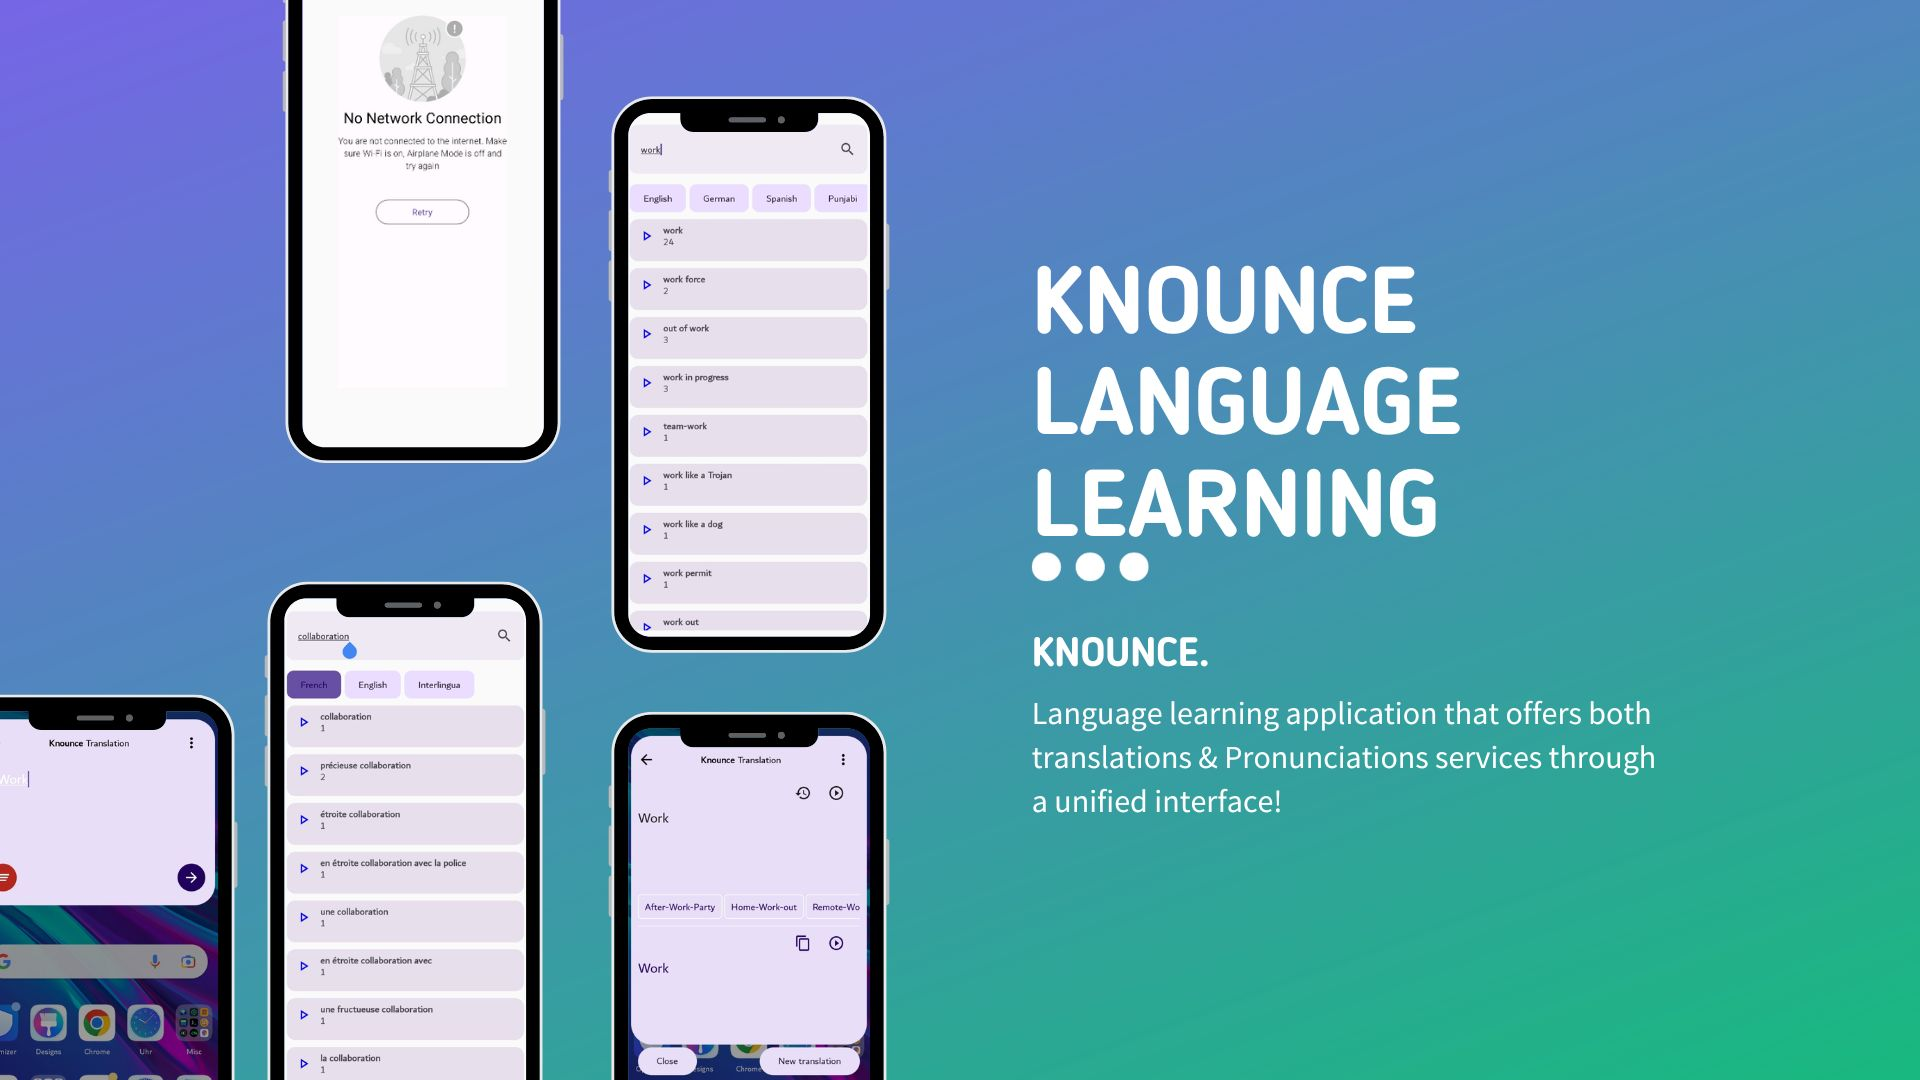
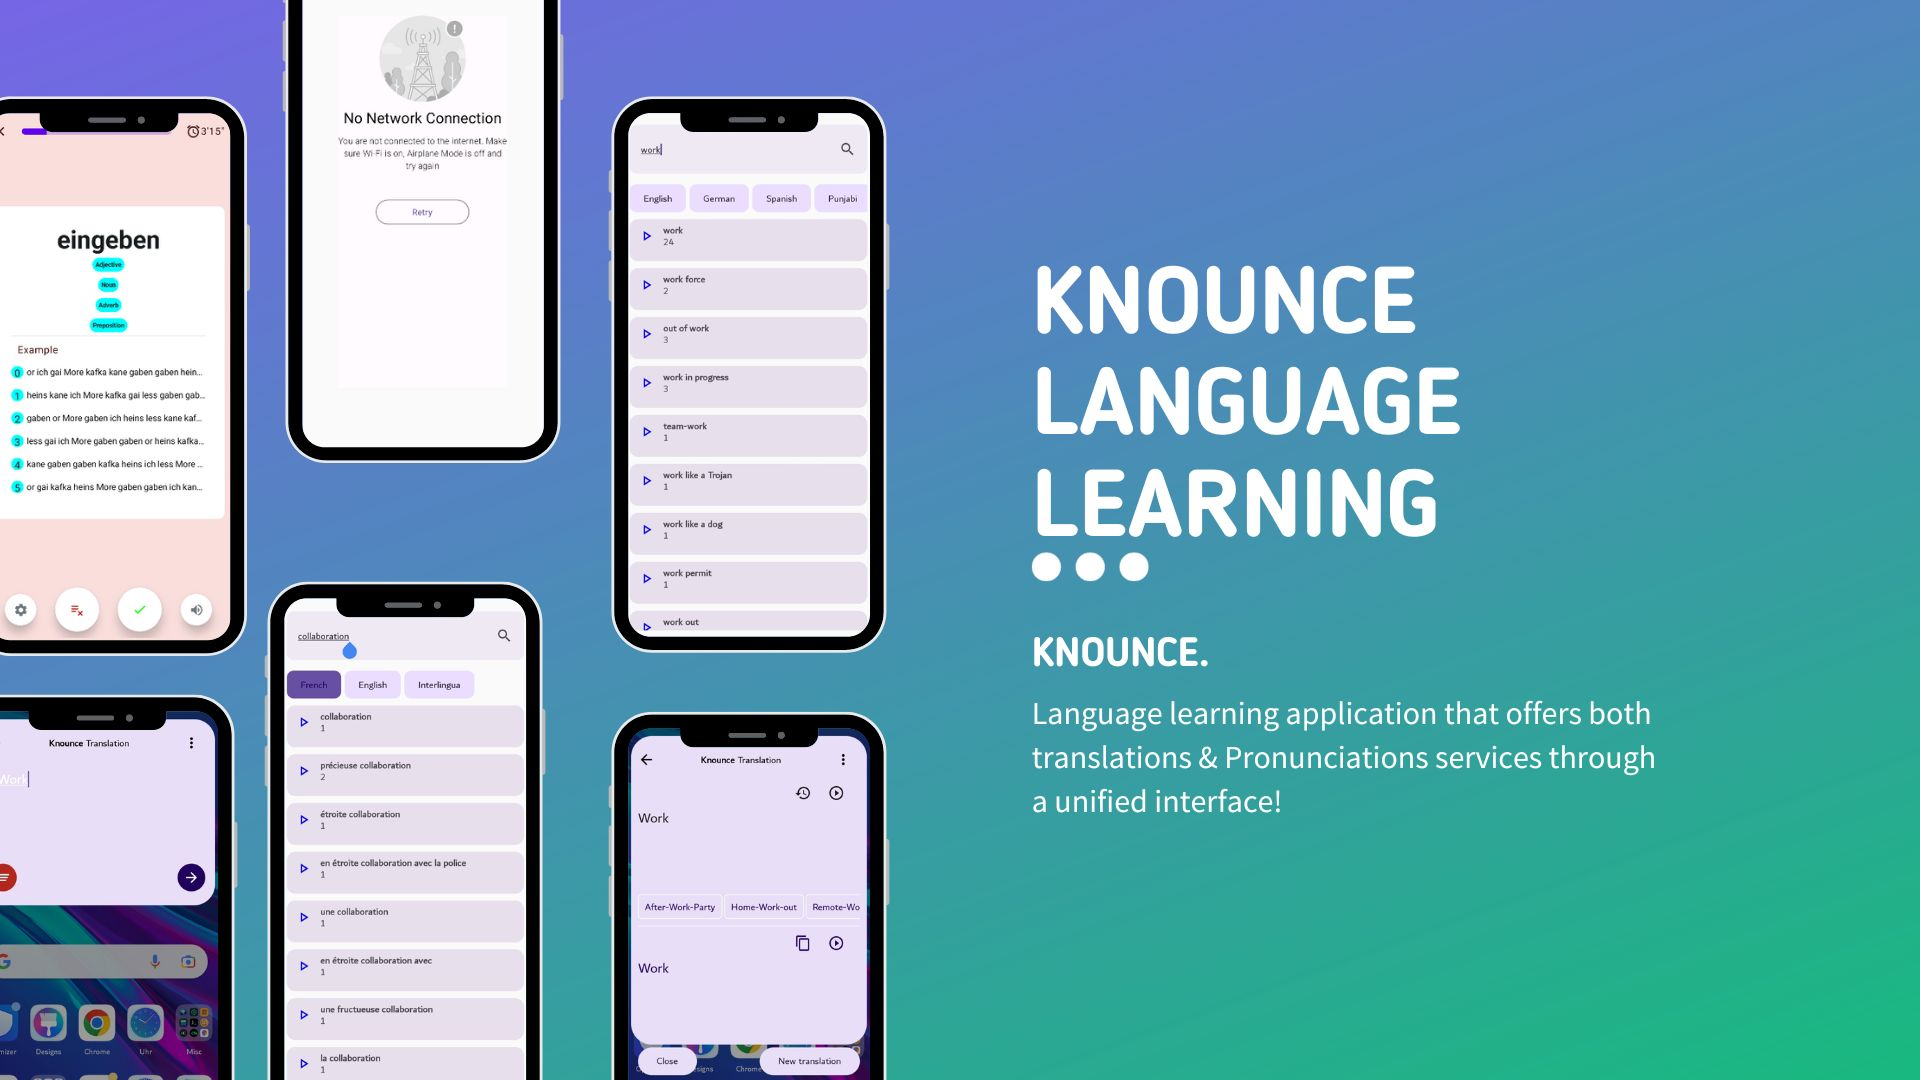
feat: implement progress bar & animation - implement the top progress bar - implement a bit of animation with the   explanations content

Changed region(s): [[0.0, 0.0917, 0.1562, 0.6111]]

diff --git a/app/src/main/kotlin/com/polendina/knounce/presentation/flashcard/components/CardContent.kt b/app/src/main/kotlin/com/polendina/knounce/presentation/flashcard/components/CardContent.kt
@@ -1,8 +1,13 @@
 package com.polendina.knounce.presentation.flashcard.components
 
+import androidx.compose.animation.AnimatedVisibility
+import androidx.compose.animation.animateContentSize
+import androidx.compose.animation.core.Spring
+import androidx.compose.animation.core.spring
 import androidx.compose.foundation.background
 import androidx.compose.foundation.border
 import androidx.compose.foundation.clickable
+import androidx.compose.foundation.interaction.MutableInteractionSource
 import androidx.compose.foundation.layout.Arrangement
 import androidx.compose.foundation.layout.Box
 import androidx.compose.foundation.layout.Column
@@ -18,7 +23,6 @@ import androidx.compose.foundation.lazy.itemsIndexed
 import androidx.compose.foundation.shape.CircleShape
 import androidx.compose.foundation.shape.RoundedCornerShape
 import androidx.compose.material.Divider
-import androidx.compose.material3.ExperimentalMaterial3Api
 import androidx.compose.material3.MaterialTheme
 import androidx.compose.material3.Text
 import androidx.compose.runtime.Composable
@@ -32,6 +36,7 @@ import androidx.compose.ui.draw.clip
 import androidx.compose.ui.graphics.Color
 import androidx.compose.ui.text.TextStyle
 import androidx.compose.ui.text.font.FontWeight
+import androidx.compose.ui.text.style.TextOverflow
 import androidx.compose.ui.tooling.preview.Preview
 import androidx.compose.ui.unit.dp
 import androidx.compose.ui.unit.sp
@@ -39,7 +44,6 @@ import com.polendina.knounce.data.database.DatabaseMock
 import com.polendina.knounce.data.database.Word
 import com.polendina.knounce.presentation.flashcard.viewmodel.FlashCardViewModelMock
 
-@OptIn(ExperimentalMaterial3Api::class)
 @Composable
 fun CardContent(
     word: Word,
@@ -54,7 +58,7 @@ fun CardContent(
             .background(MaterialTheme.colorScheme.onPrimary)
     ) {
         Column (
-//            verticalArrangement = Arrangement.Center,
+            verticalArrangement = Arrangement.Center,
             horizontalAlignment = Alignment.CenterHorizontally,
             modifier = Modifier
                 .fillMaxSize()
@@ -107,42 +111,63 @@ fun CardContent(
                     .fillMaxWidth()
             ) {
                 itemsIndexed(word.translation?.get(currentWordType) ?: emptyList()) {index, wordTranslation ->
+                    var showTranslation by remember { mutableStateOf(false) }
+                    var explanationExpanded by remember { mutableStateOf(false) }
                     Row (
                         verticalAlignment = Alignment.CenterVertically,
-                        horizontalArrangement = Arrangement.spacedBy(5.dp)
+                        horizontalArrangement = Arrangement.spacedBy(5.dp),
+                        modifier = Modifier
+                            .clickable (
+                                indication = null,
+                                interactionSource = remember { MutableInteractionSource() },
+                                onClick = {
+                                    showTranslation = !showTranslation
+                                    explanationExpanded = !explanationExpanded
+                                }
+                            )
                     ) {
                         Box (
                             contentAlignment = Alignment.Center,
                             modifier = Modifier
+                                .size(25.dp)
                                 .clip(CircleShape)
                                 .background(Color.Cyan)
-                                .size(20.dp)
                         ) {
                             Text(text = index.toString())
                         }
                         Text(
                             text = wordTranslation.explanation ?: "",
+                            maxLines = if (!explanationExpanded) 1 else Int.MAX_VALUE,
+                            overflow = TextOverflow.Ellipsis,
                             style = TextStyle(
                                 color = Color.Black
                             ),
                             modifier = Modifier
                                 .padding(vertical = 5.dp)
-                        )
-                    }
-                    wordTranslation.examples?.forEach {
-                        Text(
-                            text = "\"${it}\"",
-                            style = TextStyle(
-                                color = Color.Gray
-                            ),
-                            modifier = Modifier
-                                .padding(
-                                    horizontal = 25.dp
+                                .animateContentSize(
+                                    animationSpec = spring(
+                                        dampingRatio = Spring.DampingRatioLowBouncy,
+                                        stiffness = Spring.StiffnessLow
+                                    )
                                 )
                         )
                     }
-//                    Column {
-//                    }
+                    AnimatedVisibility(visible = showTranslation) {
+                        Column {
+                            wordTranslation.examples?.forEach {
+                                Text(
+                                    text = "\"${it}\"",
+                                    style = TextStyle(
+                                        color = Color.Gray
+                                    ),
+                                    modifier = Modifier
+                                        .padding(
+                                            horizontal = 25.dp
+                                        )
+                                )
+                            }
+                        }
+                    }
                 }
             }
         }

diff --git a/app/src/main/kotlin/com/polendina/knounce/presentation/flashcard/FlashCardScreen.kt b/app/src/main/kotlin/com/polendina/knounce/presentation/flashcard/FlashCardScreen.kt
@@ -1,5 +1,6 @@
 package com.polendina.knounce.presentation.flashcard
 
+import androidx.compose.animation.AnimatedVisibility
 import androidx.compose.foundation.ExperimentalFoundationApi
 import androidx.compose.foundation.background
 import androidx.compose.foundation.layout.Arrangement
@@ -12,16 +13,20 @@ import androidx.compose.foundation.layout.padding
 import androidx.compose.foundation.pager.HorizontalPager
 import androidx.compose.foundation.pager.rememberPagerState
 import androidx.compose.material.icons.Icons
-import androidx.compose.material.icons.filled.RemoveCircle
+import androidx.compose.material.icons.filled.Alarm
+import androidx.compose.material.icons.filled.Close
 import androidx.compose.material3.Icon
 import androidx.compose.material3.MaterialTheme
 import androidx.compose.material3.Scaffold
+import androidx.compose.material3.Text
 import androidx.compose.runtime.Composable
+import androidx.compose.ui.Alignment
 import androidx.compose.ui.Modifier
 import androidx.compose.ui.tooling.preview.Preview
 import androidx.compose.ui.unit.dp
 import com.polendina.knounce.data.database.DatabaseMock
 import com.polendina.knounce.presentation.flashcard.components.CardContent
+import com.polendina.knounce.presentation.flashcard.components.WordsProgressBar
 import com.polendina.knounce.presentation.flashcard.viewmodel.FlashCardViewModel
 import com.polendina.knounce.presentation.flashcard.viewmodel.FlashCardViewModelMock
 import com.polendina.knounce.ui.theme.KnounceTheme
@@ -31,17 +36,25 @@ import com.polendina.knounce.ui.theme.KnounceTheme
 fun FlashCardScreen(
     mainViewModel: FlashCardViewModel
 ) {
+    val horizontalPagerState = rememberPagerState (initialPage = 0) { mainViewModel.words.size }
     Scaffold (
         topBar = {
              Row (
+                 verticalAlignment = Alignment.CenterVertically,
+                 horizontalArrangement = Arrangement.SpaceBetween,
                  modifier = Modifier
                      .fillMaxWidth()
                      .height(40.dp)
              ){
                 Icon(
-                    imageVector = Icons.Default.RemoveCircle,
+                    imageVector = Icons.Default.Close,
                     contentDescription = null
                 )
+                 WordsProgressBar(wordIndex = horizontalPagerState.currentPage, totalWordsCount = mainViewModel.words.size)
+                 Row {
+                     Icon(imageVector = Icons.Default.Alarm, contentDescription = null)
+                     Text(text = "3'15\"")
+                 }
              }
         },
         bottomBar = {
@@ -57,15 +70,16 @@ fun FlashCardScreen(
             modifier = Modifier
                 .fillMaxSize()
                 .padding(it)
-        ){
-            val horizontalPagerState = rememberPagerState (initialPage = 0) { mainViewModel.words.size }
-            HorizontalPager(
-                state = horizontalPagerState,
-                pageSpacing = 10.dp
-            ) {
-                CardContent(
-                    word = mainViewModel.words.getOrNull(it),
-                )
+        ) {
+            AnimatedVisibility(visible = mainViewModel.words.isNotEmpty()) {
+                HorizontalPager(
+                    state = horizontalPagerState,
+                    pageSpacing = 10.dp
+                ) {
+                    CardContent(
+                        word = mainViewModel.words[it],
+                    )
+                }
             }
         }
     }

diff --git a/app/src/main/kotlin/com/polendina/knounce/presentation/flashcard/components/WordsProgressBar.kt b/app/src/main/kotlin/com/polendina/knounce/presentation/flashcard/components/WordsProgressBar.kt
@@ -1,0 +1,50 @@
+package com.polendina.knounce.presentation.flashcard.components
+
+import androidx.compose.animation.core.animateFloatAsState
+import androidx.compose.foundation.layout.Column
+import androidx.compose.foundation.layout.height
+import androidx.compose.foundation.layout.padding
+import androidx.compose.foundation.shape.RoundedCornerShape
+import androidx.compose.material.Button
+import androidx.compose.material.LinearProgressIndicator
+import androidx.compose.runtime.Composable
+import androidx.compose.runtime.getValue
+import androidx.compose.runtime.mutableIntStateOf
+import androidx.compose.runtime.remember
+import androidx.compose.runtime.setValue
+import androidx.compose.ui.Modifier
+import androidx.compose.ui.draw.clip
+import androidx.compose.ui.tooling.preview.Preview
+import androidx.compose.ui.unit.dp
+
+@Composable
+internal fun WordsProgressBar(
+    wordIndex: Int,
+    totalWordsCount: Int
+) {
+    val progress by animateFloatAsState(
+        targetValue = (wordIndex + 1) / totalWordsCount.toFloat()
+    )
+    LinearProgressIndicator(
+        progress = progress,
+        modifier = Modifier
+            .height(10.dp)
+            .clip(RoundedCornerShape(10.dp))
+    )
+}
+
+@Preview(showBackground = true)
+@Composable
+fun WordsProgressBarPreview() {
+    Column (
+        modifier = Modifier
+            .padding(50.dp)
+    ) {
+        var wordIndex by remember { mutableIntStateOf(3) }
+        WordsProgressBar(wordIndex = wordIndex, totalWordsCount = 9)
+        Button(onClick = {
+            wordIndex += 1
+        }) {
+        }
+    }
+}
